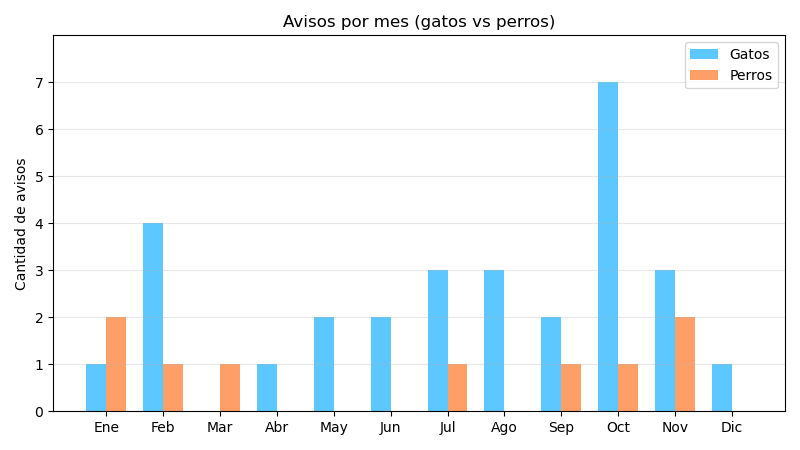
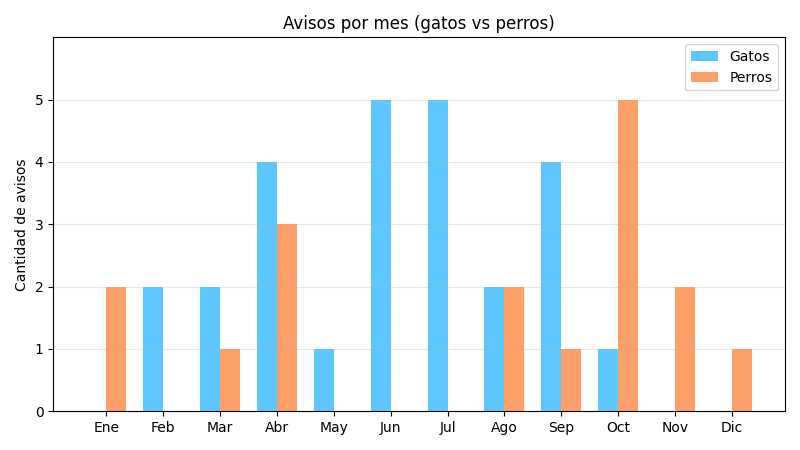
fix(estadisticas): correcciones tarea 1

diff --git a/codigos ayuda/graficos.py b/codigos ayuda/graficos.py
@@ -1,10 +1,11 @@
 import matplotlib.pyplot as plt
 import numpy as np
 import random
+from datetime import datetime, timedelta
 
 
 # 1) Gráfico de líneas: avisos por día
-dias = ["Lunes", "Martes", "Miércoles", "Jueves", "Viernes", "Sábado", "Domingo"]
+dias = [(datetime.now() - timedelta(days=i)).strftime("%d/%m/%Y") for i in range(6, -1, -1)]
 avisos = np.random.randint(1, 10, size=7)
 
 print(avisos)#
